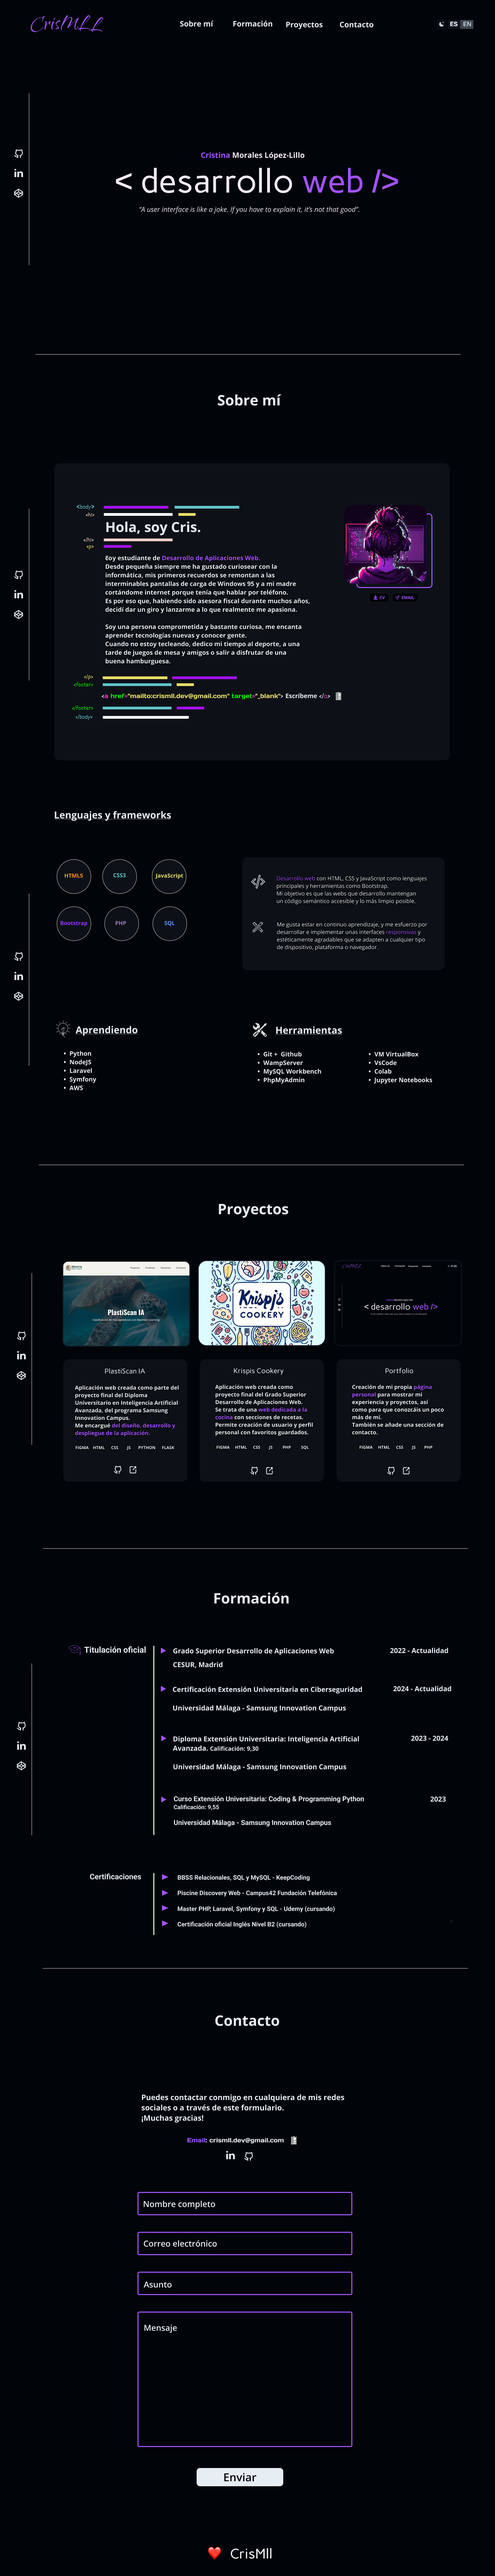
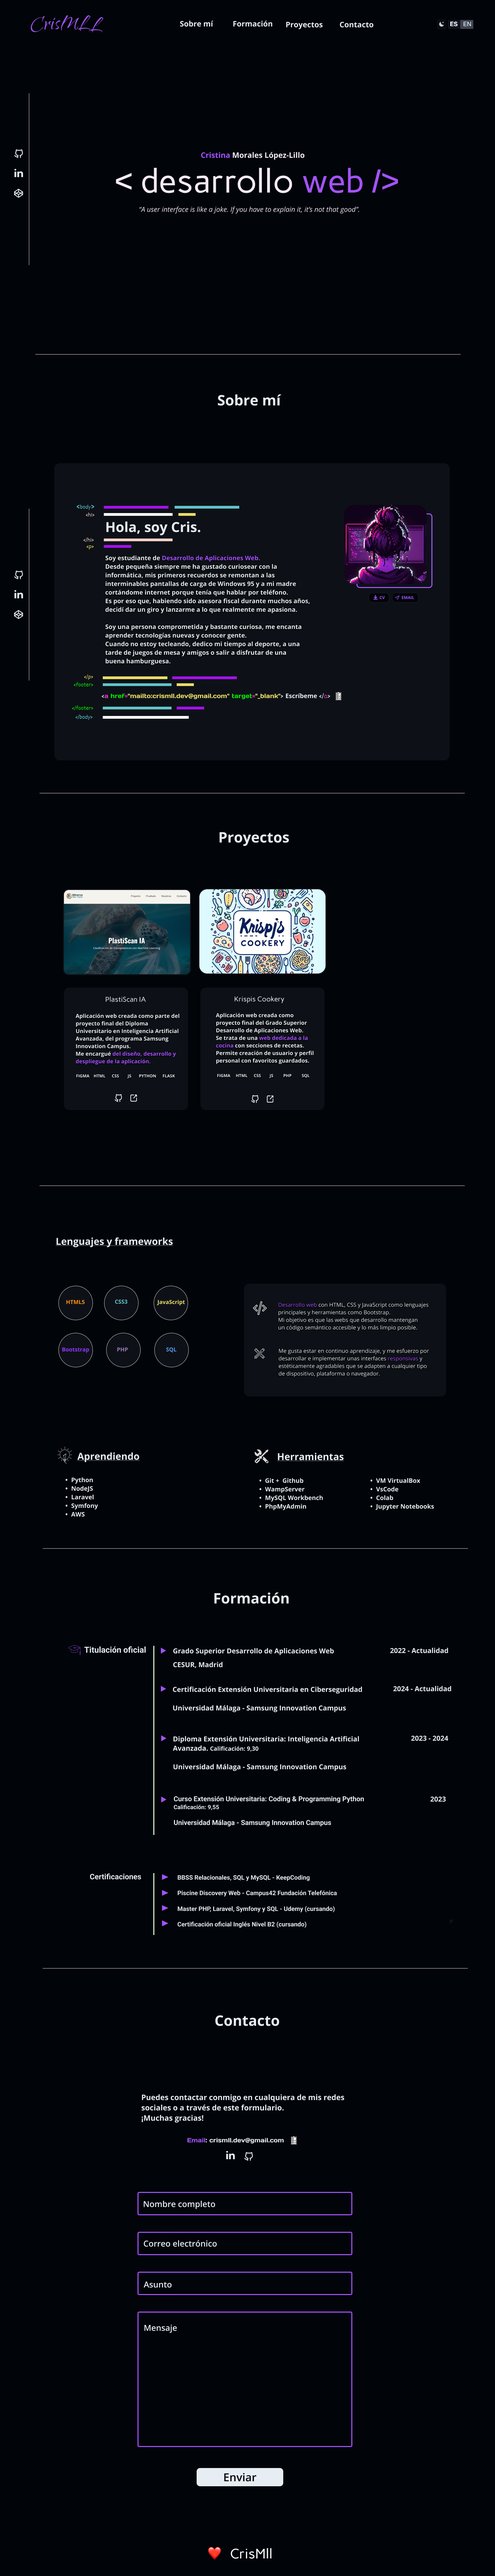
estilos para nav-bar y responsive

Changed region(s): [[0.125, 0.4686, 0.875, 0.5935], [0.125, 0.3124, 0.8125, 0.4373], [0.75, 0.4061, 0.7812, 0.4373]]

diff --git a/index.html b/index.html
@@ -1,42 +1,49 @@
 <!DOCTYPE html>
 <html lang="es">
 <head>
-    <head>
-        <meta charset="UTF-8">
-        <meta name="viewport" content="width=device-width, initial-scale=1.0">
-        <link rel="shortcut icon" href="images/favicon/favicon.ico" type="image/x-icon">
-        <meta name="description"
-            content="Esta web está dedicada a presentar el portfolio de CrisMll">
-        <meta name="keywords"
-            content="portfolio, desarrollo web">
-        <link rel="canonical" href="https://www.crismll.dev">
-        <meta name="apple-mobile-web-app-capable" content="yes">
-        <meta name="apple-mobile-web-app-status-bar-style" content="black">
-        <link rel="preconnect" href="https://fonts.googleapis.com">
-        <link rel="preconnect" href="https://fonts.gstatic.com" crossorigin>
-        <link rel="apple-touch-icon" href="images/favicon/favicon.ico">
-        <title>Proyecto PlastiScan</title>
-        <link rel="stylesheet" href="https://cdn.jsdelivr.net/npm/bootstrap-icons@1.11.3/font/bootstrap-icons.min.css">
-        <link href="https://cdn.jsdelivr.net/npm/bootstrap@5.3.2/dist/css/bootstrap.min.css" rel="stylesheet" integrity="sha384-T3c6CoIi6uLrA9TneNEoa7RxnatzjcDSCmG1MXxSR1GAsXEV/Dwwykc2MPK8M2HN" crossorigin="anonymous">
-        <link rel="stylesheet" href="css/styles.css">
-    </head>
+    <meta charset="UTF-8">
+    <meta name="viewport" content="width=device-width, initial-scale=1.0">
+    <link rel="shortcut icon" href="images/favicon/favicon.ico" type="image/x-icon">
+    <link rel="apple-touch-icon" href="images/favicon/favicon.ico">
+    <meta name="description" content="Esta web está dedicada a presentar el portfolio de CrisMll">
+    <meta name="keywords" content="portfolio, desarrollo web">
+    <link rel="canonical" href="https://www.crismll.dev">
+    <meta name="apple-mobile-web-app-capable" content="yes">
+    <meta name="apple-mobile-web-app-status-bar-style" content="black">
+    <link rel="preconnect" href="https://fonts.googleapis.com">
+    <link rel="preconnect" href="https://fonts.gstatic.com" crossorigin>
+    <link
+        href="https://fonts.googleapis.com/css2?family=Carme&family=Coming+Soon&family=Open+Sans:ital,wght@0,300..800;1,300..800&display=swap"
+        rel="stylesheet">
+    <link href="https://fonts.googleapis.com/css2?family=Caveat:wght@400..700&family=Flow+Rounded&display=swap" rel="stylesheet">
+    <link rel="stylesheet" href="https://cdn.jsdelivr.net/npm/bootstrap-icons@1.11.3/font/bootstrap-icons.min.css">
+    <link href="https://cdn.jsdelivr.net/npm/bootstrap@5.3.2/dist/css/bootstrap.min.css" rel="stylesheet"
+        integrity="sha384-T3c6CoIi6uLrA9TneNEoa7RxnatzjcDSCmG1MXxSR1GAsXEV/Dwwykc2MPK8M2HN" crossorigin="anonymous">
     <title>Portfolio de CrisMll</title>
+    <link rel="stylesheet" href="css/styles.css">
 </head>
 <body>
-
-    <header>
-        <img class="logo-cris" src="images/logo-nombre.jpg" alt="logo de CrisMll">
+    <header class="header">
+        <a href="#hero"><img src="images/logo-nombre.jpg" alt="imagen del logo" class="logo"></a>
         <button class="abrir-menu" id="abrir"><i class="bi bi-list"></i></button>
-        <nav class="nav-bar" id="nav">
+        <nav class="nav" id="nav">
             <button class="cerrar-menu" id="cerrar"><i class="bi bi-x-lg"></i></button>
-            <ul class="secciones-links">
-                <li><a href="#sobre-mi" title="Ir a la sección sobre mí">Sobre mí</a></li>
-                <li><a href="#proyectos" title="Ir a la sección Proyectos">Proyectos</a></li>
-                <li><a href="#formacion" title="Ir a la sección Formación">Formación</a></li>
-                <li><a href="#contacto" title="Ir a la sección de Contacto">Contacto</a></li>
+            <ul class="nav-list">
+                <li>
+                    <a href="#sobre-mi" class="nav-list link" title="Ir a la sección sobre mí">Sobre mí</a>
+                </li>
+                <li>
+                    <a href="#proyectos" class="nav-list link" title="Ir a la sección Proyectos">Proyectos</a>
+                </li>
+                <li>
+                    <a href="#formacion" class="nav-list link" title="Ir a la sección Formación">Formación</a>
+                </li>
+                <li>
+                    <a href="#contacto" class="nav-list link" title="Ir a la sección de Contacto">Contacto</a>
+                </li>
             </ul>
         </nav>
-
+    </header>
         <section class="hero">
             <article class="hero inicio" >
                 <h1 class="titulo">
@@ -50,10 +57,7 @@
                 <blockquote class="cita" title="Cita de Martin LeBlanc">"A user interface is like a joke. If you have to explain it, it's not that good."</blockquote>
             </article>
         </section>
-    </header>
-
     <main>
-
         <section>
             <h2 class="subtitulos" id="sobre-mi">Sobre mí</h2>
             <section class="contenedor-about">
@@ -292,6 +296,6 @@
     <footer>
         CrisMll&copy; 2024
     </footer>
-
+<script src="js/main.js"></script>
 </body>
 </html>

diff --git a/css/styles.css b/css/styles.css
@@ -1,0 +1,153 @@
+/*CSS reset estilos de navegadores y variables root*/
+* {
+    box-sizing: border-box;
+    min-width: 0;
+    margin: 0;
+    padding: 0;
+}
+
+body {
+    height: auto;
+    width: 100%;
+    min-height: 100dvh;
+    background-color: var(--color-fondo);
+    color: var(--color-principal);
+}
+
+h1,
+h2,
+h3,
+h4 {
+    text-wrap: balance;
+}
+
+p {
+    text-wrap: pretty;
+}
+
+:root {
+    /*fuente logo*/
+    --font-caveat: "Caveat", cursive;
+    /*fuente titulos*/
+    --font-carme: "Carme", sans-serif;
+    /*fuente principal*/
+    --font-open: "Open Sans", sans-serif;
+    /*fuente sobre mi estilos html*/
+    --font-coming: "Coming Soon", cursive;
+    /*fuente de lineas*/
+    --font-flow: "Flow Rounded", system-ui;
+    --color-fondo: #010409;
+    --color-fondo-resaltado: #0D1117;
+    --color-principal: #E6EDF3;
+    --color-resaltado: #A353FD;
+    --color-secundario: #F3EAF4;
+}
+
+/*ESTILOS BARRA DE MENU Y BARRA RESPONSIVE*/
+
+header {
+    display: flex;
+    align-items: center;
+    justify-content: space-between;
+    padding: 2rem;
+    background-color: var(--color-fondo);
+    position: fixed;
+    top: 0;
+    left: 0;
+    width: 100%;
+}
+
+.logo {
+    max-width: 10rem;
+}
+
+.nav-list {
+    list-style-type: none;
+    display: flex;
+    margin-top: 15px;
+    gap: 3rem;
+}
+
+.nav-list li a {
+    font-family: var(--font-carme);
+    font-size: 18px;
+    text-decoration: none;
+    color: var(--color-principal);
+    transition: color 0.1s ease-in-out;
+}
+
+.nav-list.link:hover {
+    color: var(--color-resaltado);
+
+}
+
+.abrir-menu,
+.cerrar-menu {
+    display: none;
+}
+
+@media screen and (max-width:734px) {
+
+    header{
+        position: absolute;
+    }
+    
+    .abrir-menu,
+    .cerrar-menu {
+        display: block;
+        border: 0;
+        font-size: 1.25rem;
+        background-color: transparent;
+        color: var(--color-principal);
+        cursor: pointer;
+    }
+
+    .nav {
+        opacity: 0;
+        visibility: hidden;
+        display: flex;
+        flex-direction: column;
+        align-items: end;
+        position: fixed;
+        gap: 1rem;
+        top: 0;
+        right: 0;
+        bottom: 0;
+        background-color: var(--color-fondo-resaltado);
+        padding: 2rem;
+        box-shadow: 0 0 0 100vmax rgba(0, 0, 0, .5);
+    }
+
+    .nav.visible {
+        opacity: 1;
+        visibility: visible;
+    }
+
+    .nav-list {
+        flex-direction: column;
+        align-items: end;
+
+    }
+
+    .nav-list.link {
+        color: var(--color-principal);
+    }
+}
+
+
+
+
+
+
+
+
+
+
+
+
+
+
+
+
+
+

diff --git a/js/main.js b/js/main.js
@@ -1,0 +1,13 @@
+//controles javascript para estilar el menú de navegación responsive
+
+const nav = document.querySelector("#nav");
+const abrir = document.querySelector("#abrir");
+const cerrar = document.querySelector("#cerrar");
+
+abrir.addEventListener("click", () => {
+    nav.classList.add("visible");
+})
+
+cerrar.addEventListener("click", () => {
+    nav.classList.remove("visible");
+})
